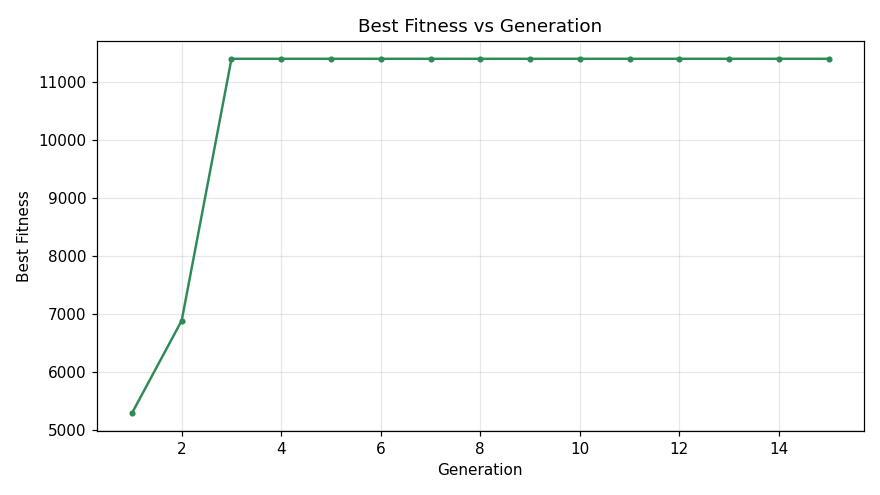
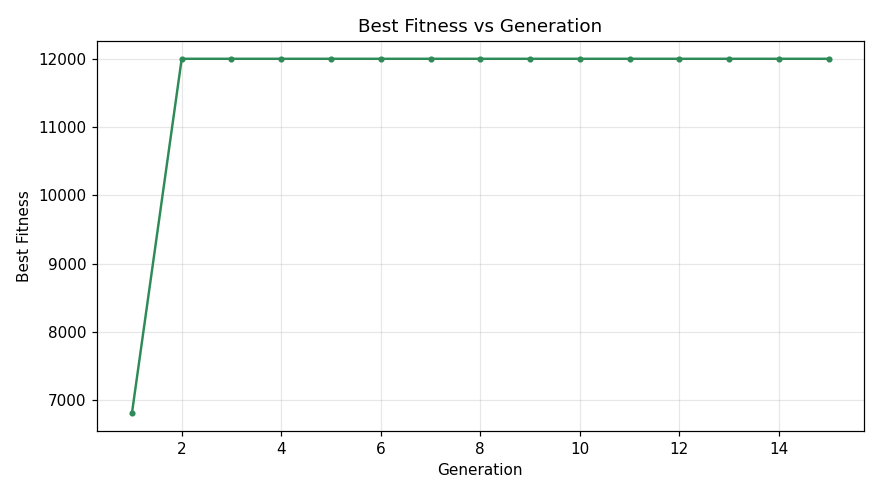
Fix: Survivor logger not working

diff --git a/simulation.py b/simulation.py
@@ -24,6 +24,7 @@ class Simulation:
         self.speed = config.BASE_SPEED
         self.frame = 0
         self.alive_count = len(dinos)
+        self.survivor_count = len(dinos)
         self.finished = False
         for d in self.dinos:
             d.reset()
@@ -74,6 +75,7 @@ class Simulation:
                 alive += 1
 
         self.alive_count = alive
+        self.survivor_count = sum(1 for d in self.dinos if d.alive or d.solved)
         self.frame += 1
 
         if self.alive_count == 0 or self.frame >= config.MAX_FRAMES_PER_GENERATION:
@@ -110,7 +112,7 @@ class Simulation:
         avg = sum(fits) / len(fits) if fits else 0.0
         champion = max(self.dinos, key=lambda d: d.fitness) if self.dinos else None
         return {
-            "alive": self.alive_count,
+            "alive": self.survivor_count,
             "best_fitness": best,
             "avg_fitness": avg,
             "champion": champion,